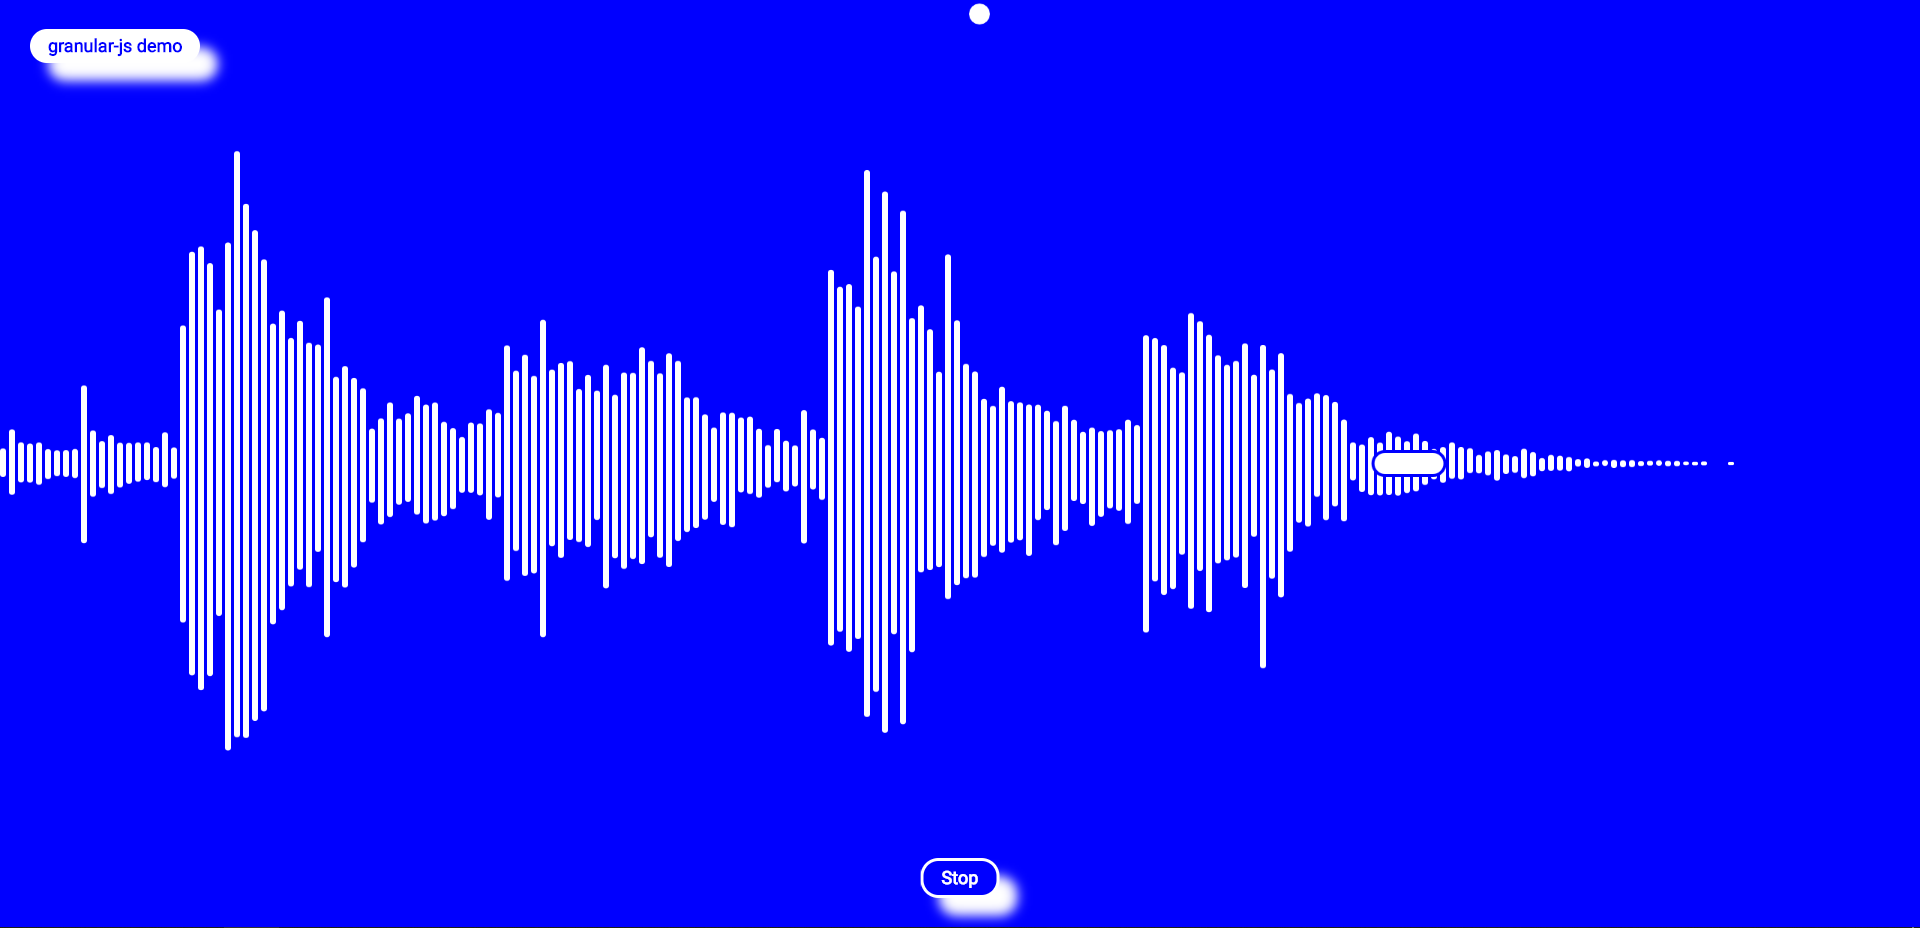
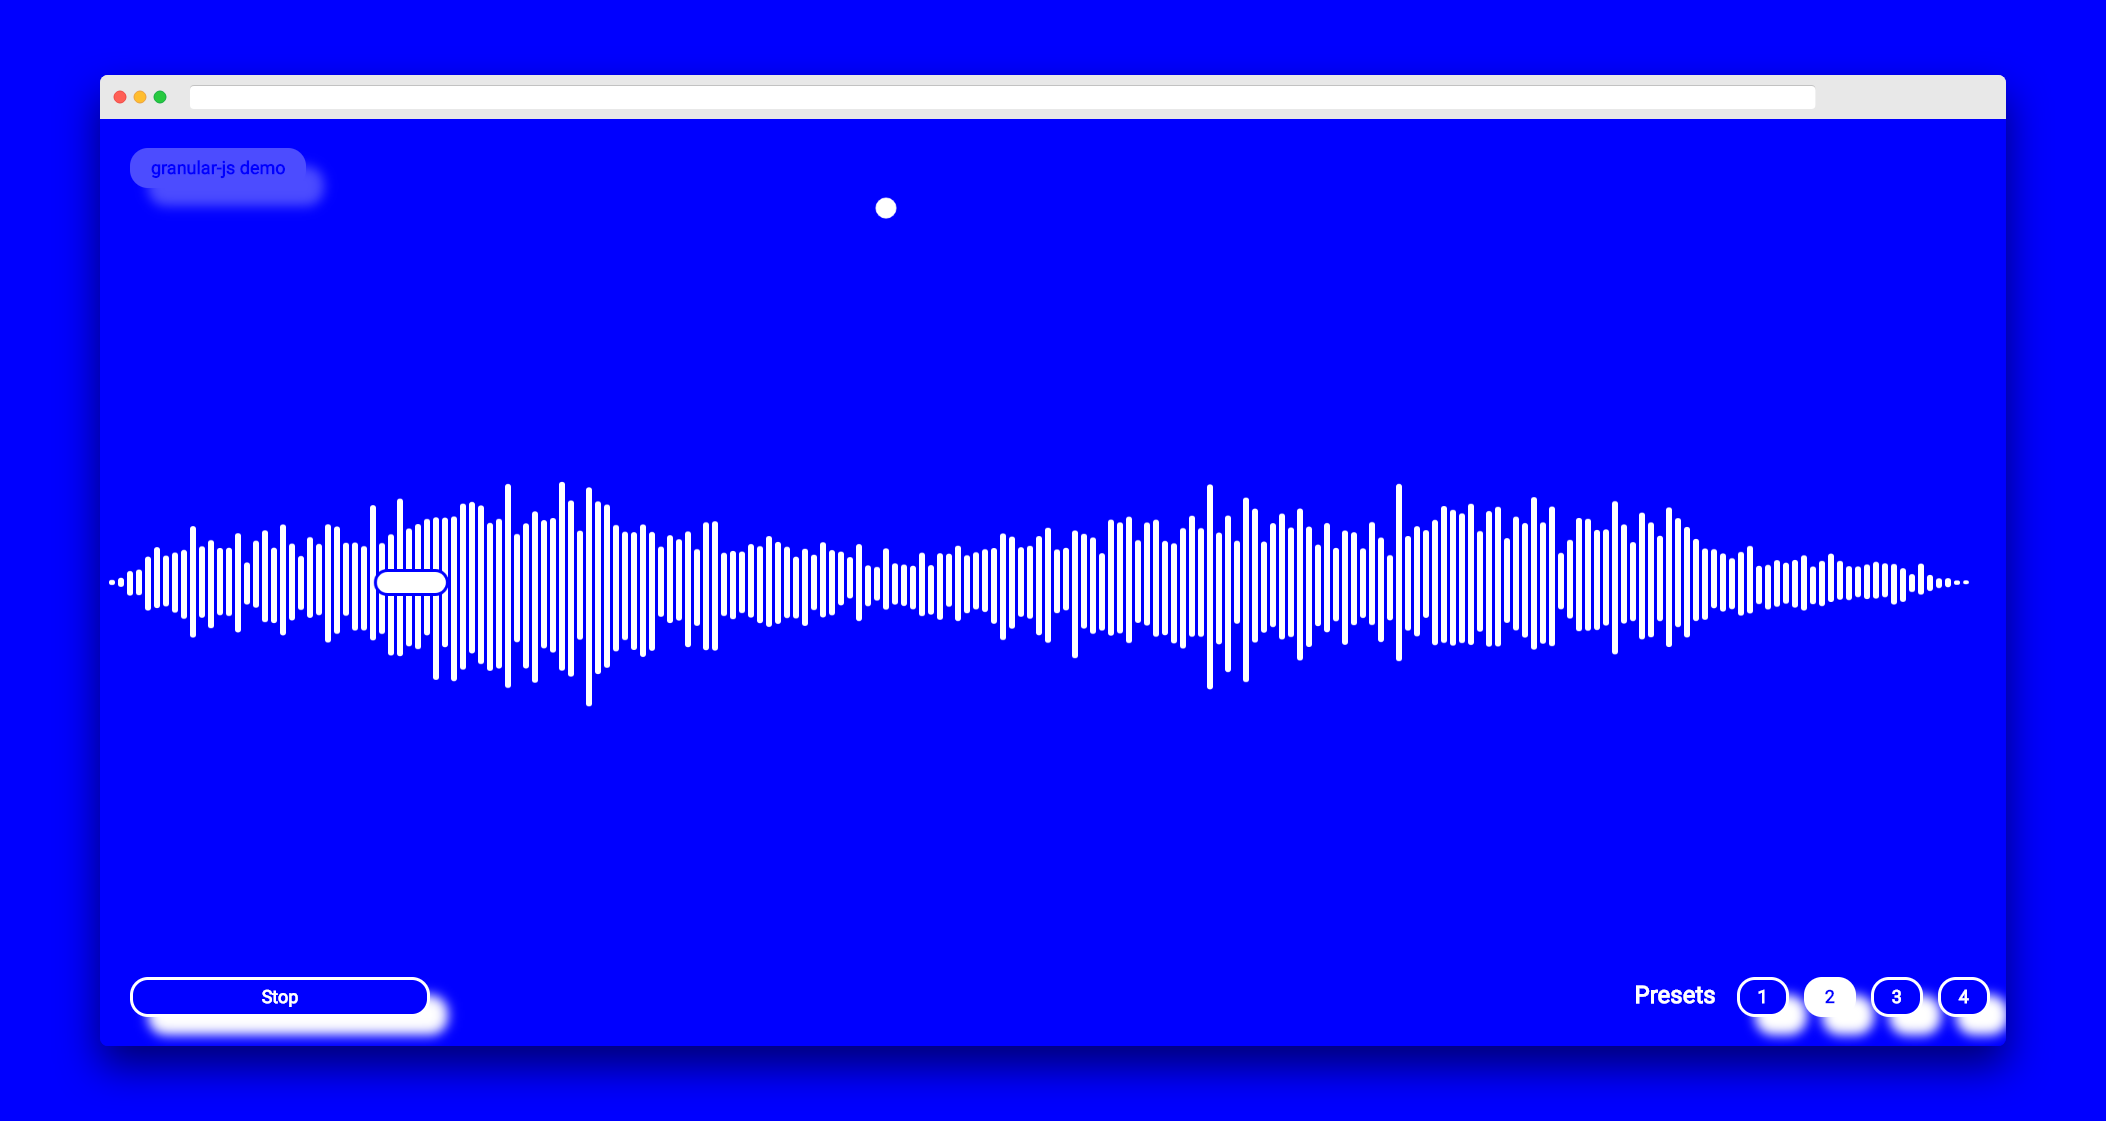
Updates

Changed region(s): [[0.0, 0.0312, 0.9688, 1.0], [0.5, 0.0, 0.5312, 0.0312], [0.4062, 0.1562, 0.4375, 0.1875]]

diff --git a/src/index.html b/src/index.html
@@ -2,10 +2,11 @@
 <html>
 
 <head>
-  <title>granular-js Example</title>
+  <title>granular-js Demo</title>
   <link href="https://fonts.googleapis.com/css?family=Roboto" rel="stylesheet">
   <meta name="viewport" content="width=device-width, initial-scale=1">
   <link rel="shortcut icon" type="image/x-icon" href="/favicon.ico"/>
+  <link rel="stylesheet" href="https://cdnjs.cloudflare.com/ajax/libs/animate.css/3.7.0/animate.min.css">
   <style>
     * {
       box-sizing: border-box;
@@ -13,6 +14,7 @@
       font-weight: bold;
       margin: 0;
       padding: 0;
+      user-select: none;
     }
 
     html, body {
@@ -26,32 +28,6 @@
       position: absolute;
       right: 0;
       top: 0;
-    }
-
-    @keyframes bounce {
-      from,
-      20%,
-      53%,
-      80%,
-      to {
-        animation-timing-function: cubic-bezier(0.215, 0.61, 0.355, 1);
-        transform: translate3d(-50%, 0, 0);
-      }
-
-      40%,
-      43% {
-        animation-timing-function: cubic-bezier(0.755, 0.05, 0.855, 0.06);
-        transform: translate3d(-50%, -30px, 0);
-      }
-
-      70% {
-        animation-timing-function: cubic-bezier(0.755, 0.05, 0.855, 0.06);
-        transform: translate3d(-50%, -15px, 0);
-      }
-
-      90% {
-        transform: translate3d(-50%, -4px, 0);
-      }
     }
 
     .pill {
@@ -96,12 +72,6 @@
       display: none;
     }
 
-    .animation-bounce {
-      animation-name: bounce;
-      animation-iteration-count: infinite;
-      animation-duration: 2000ms;
-    }
-
     #pill-title {
       left: 20px;
       opacity: 0.3;
@@ -111,18 +81,11 @@
     }
 
     #pill-play {
-      /* position: absolute;
-      bottom: 20px;
-      left: 50%;
-      transform: translate(-50%); */
       min-width: 200px;
     }
 
-    #presets {
-      /* bottom: 20px; */
+    #presets .label {
       color: white;
-      /* position: absolute;
-      right: 20px; */
     }
 
     #presets .preset {
@@ -175,11 +138,11 @@
 <body>
   <div id="canvases"></div>
 
-  <div id="pill-title" class="pill">granular-js demo</div>
+  <div id="pill-title" class="pill"><a href="https://github.com/philippfromme/granular-js-demo">granular-js demo</a></div>
 
-  <div id="pill-drop" class="pill animation-bounce centered hidden">Drop Audio</div>
+  <div id="pill-drop" class="pill animated pulse infinite centered hidden">Drop Audio</div>
 
-  <div id="pill-loading" class="pill animation-bounce centered">Loading</div>
+  <div id="pill-loading" class="pill animated pulse infinite centered">Loading</div>
 
   <div class="bottom">
     <button id="pill-play" class="pill pill-inverted pill-button inactive">Play!</button>

diff --git a/src/index.js b/src/index.js
@@ -221,6 +221,8 @@ async function init() {
   buttons[0].classList.remove('pill-inverted');
 
   await loadPreset(PRESETS[0]);
+
+  pillPlay.classList.add('animated', 'pulse');
 }
 
 init();
